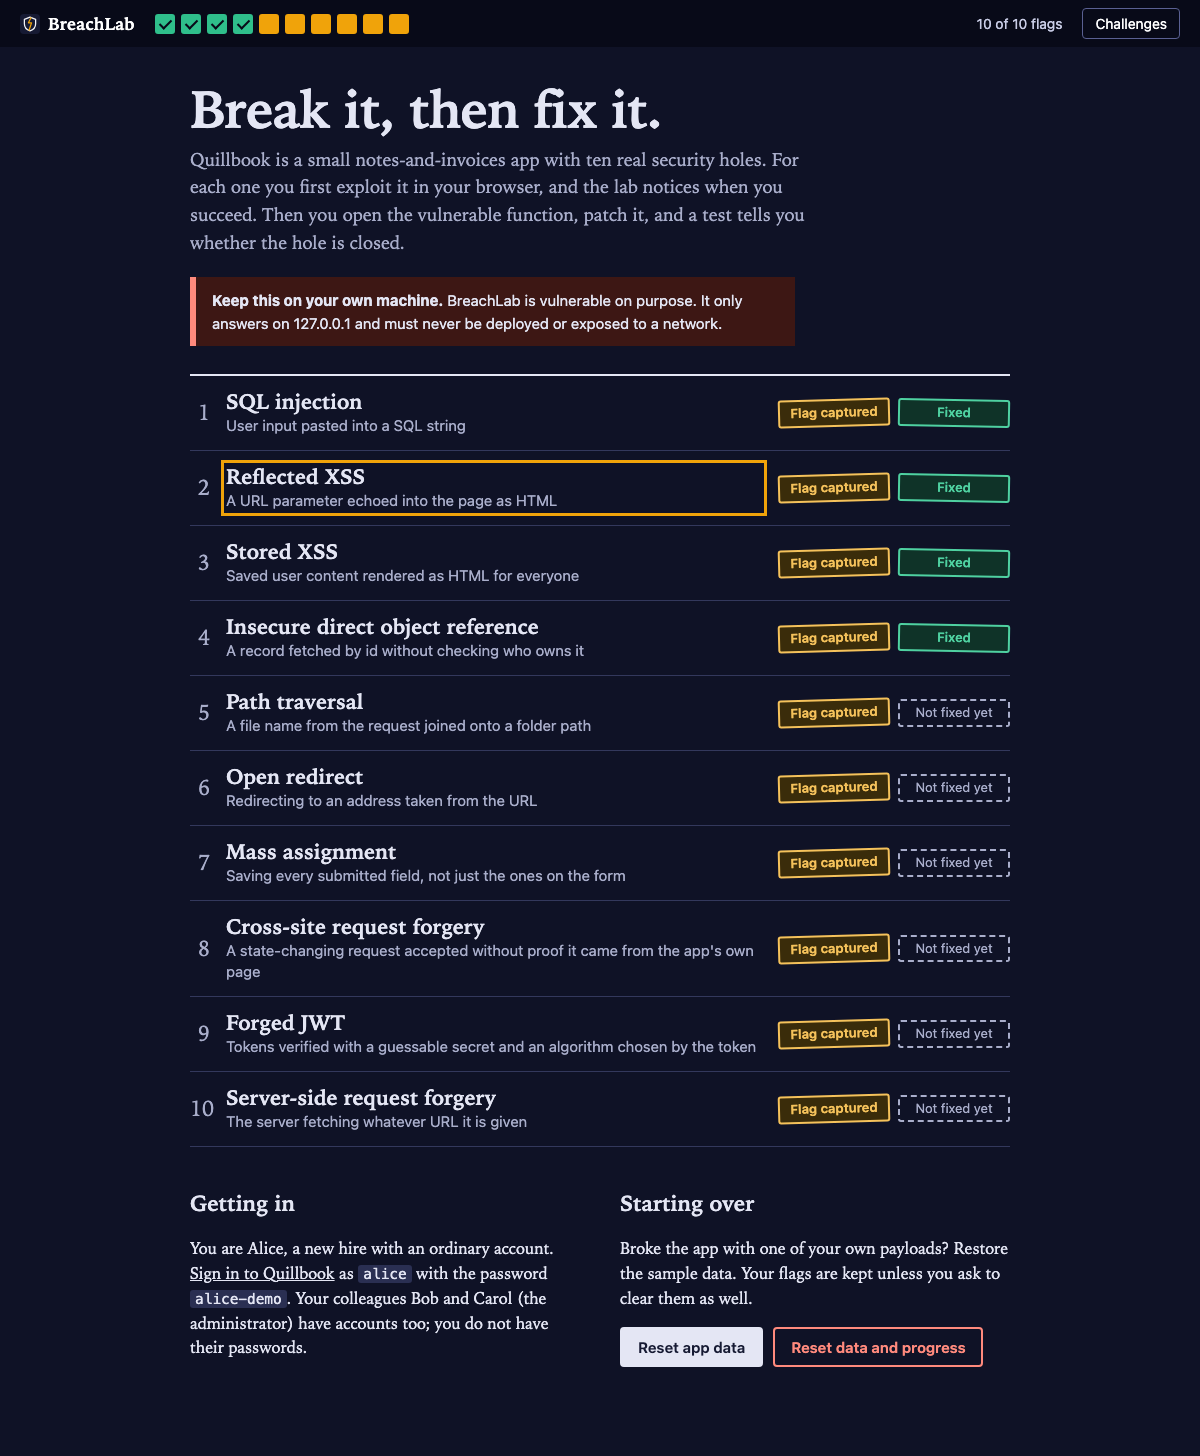
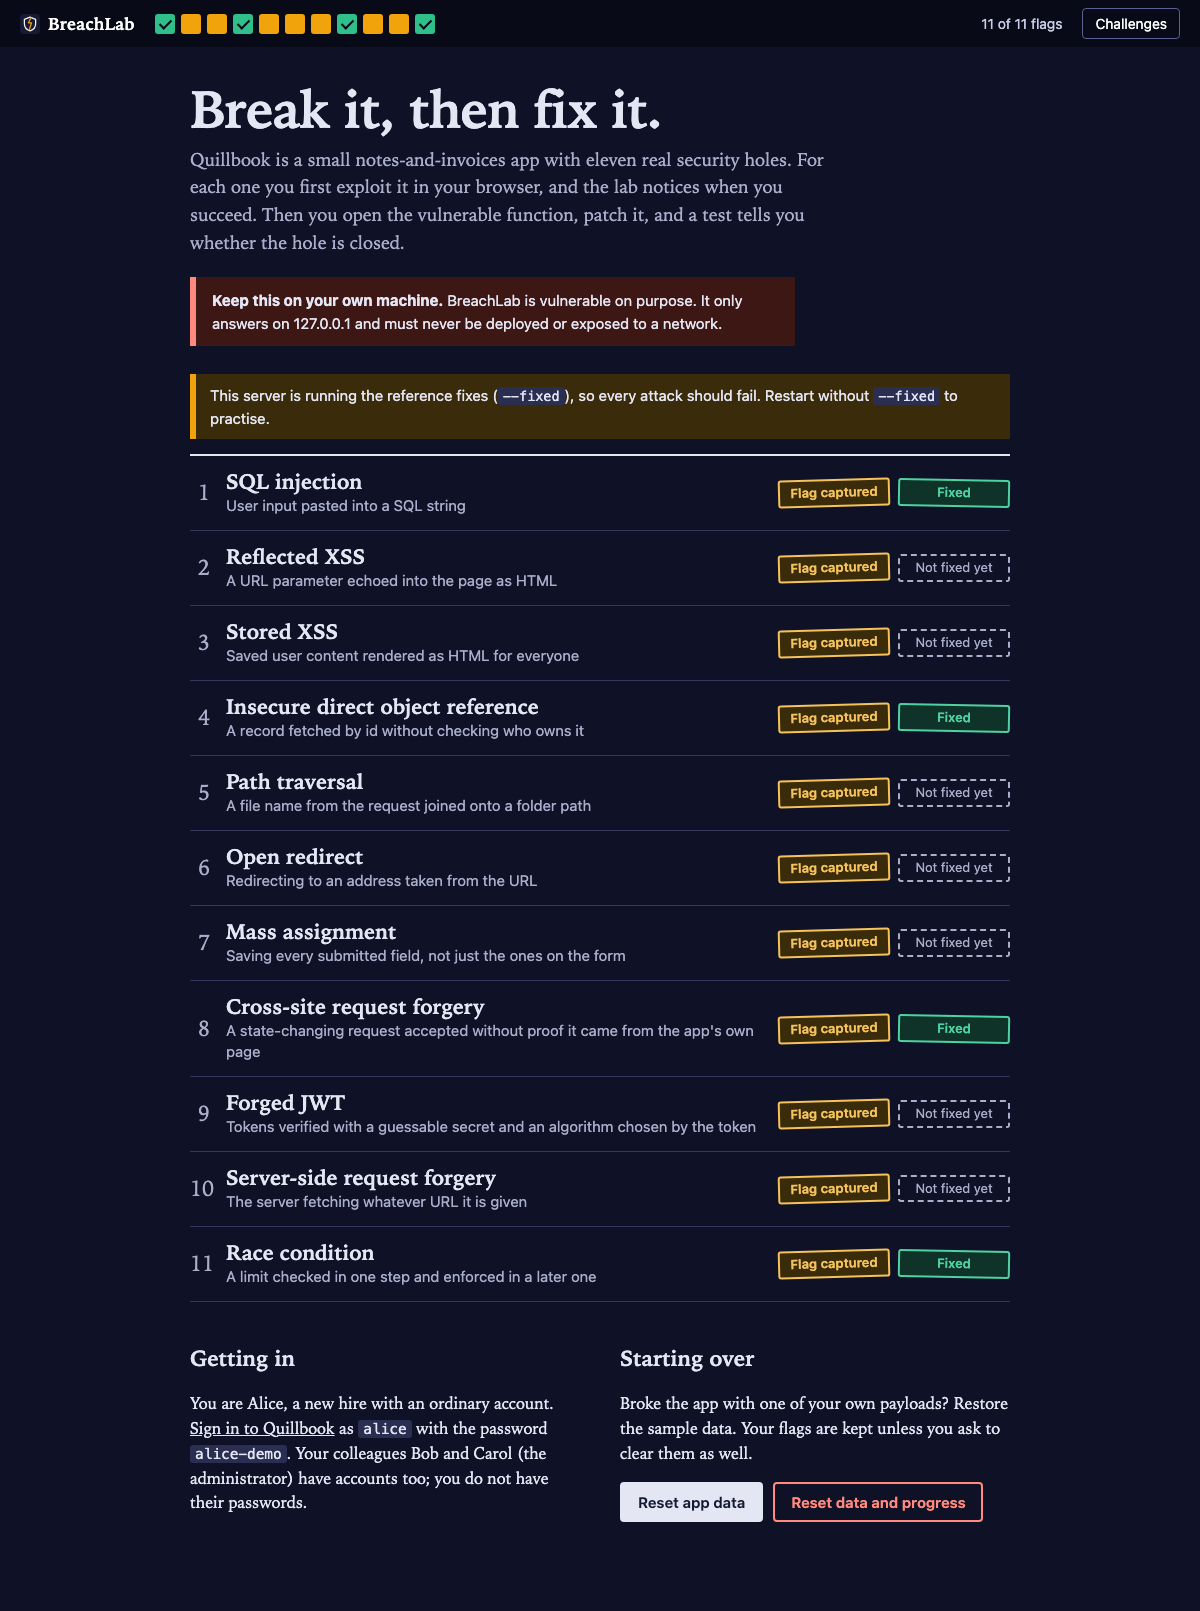
Walkthrough solves the race challenge from its hint; README, screenshots, changelog

Changed region(s): [[0.0, 0.0, 0.8633, 0.9581], [0.4933, 0.8036, 0.8325, 0.9581], [0.8325, 0.0, 0.9867, 0.0309]]

diff --git a/README.md b/README.md
@@ -1,7 +1,7 @@
 # BreachLab
 
 Learn web security by breaking a small, realistic app and then fixing it, entirely on your own machine.
-Ten guided challenges, each with a story, three hints, automatic flag detection, and a test that only passes once you have closed the hole.
+Eleven guided challenges, each with a story, three hints, automatic flag detection, and a test that only passes once you have closed the hole.
 
 > [!CAUTION]
 > **BreachLab is vulnerable on purpose. Never deploy it, never expose it to a network.**
@@ -10,9 +10,9 @@ Ten guided challenges, each with a story, three hints, automatic flag detection,
 
 ![Recording of the lab: the SQL injection challenge, then a search for ' OR 1=1-- in Quillbook shows other people's invoices and captures the flag](docs/demo.gif)
 
-The recording is the real app, driven by `e2e/demo.cjs`. Below: the challenge list with all ten flags captured and four holes fixed.
+The recording is the real app, driven by `e2e/demo.cjs`. Below: the challenge list with all eleven flags captured and four holes fixed.
 
-![The challenge list with all ten flags captured and four holes fixed](docs/screenshots/progress.png)
+![The challenge list with all eleven flags captured and four holes fixed](docs/screenshots/progress.png)
 
 ## Quickstart
 
@@ -60,7 +60,7 @@ why the hole existed, why the fix works, and the general pattern to use in real 
 page can show it (behind a spoiler), and `python -m breachlab --fixed` runs the whole app on the
 reference fixes so you can watch your attacks fail.
 
-## The ten challenges
+## The eleven challenges
 
 | # | Challenge | Where in Quillbook | Function you patch |
 |---|-----------|--------------------|--------------------|
@@ -74,10 +74,11 @@ reference fixes so you can watch your attacks fail.
 | 8 | Cross-site request forgery | Account profile form | `csrf.is_request_genuine` |
 | 9 | Forged JWT (`alg: none` and a weak secret) | API token | `weak_jwt.verify` |
 | 10 | Server-side request forgery | Import invoice from URL | `ssrf.is_allowed_url` |
+| 11 | Race condition | Voucher redemption on the account page | `race_condition.redeem_voucher` |
 
 ## Features
 
-- Ten challenges with a story, a goal, three progressive hints and a flag each.
+- Eleven challenges with a story, a goal, three progressive hints and a flag each.
 - Automatic detection: the server recognises a successful attack (a foreign row in search results, a
   read outside the exports folder, a forged admin token, script calling `alert()`, and so on). There
   is no flag form to paste into.
@@ -89,7 +90,7 @@ reference fixes so you can watch your attacks fail.
   or start. If that port is busy, the lab starts anyway and the challenge page explains how to serve the
   page with `python3 -m http.server` instead.
 - A progress page showing which holes you have broken and which you have fixed, also visible as a
-  strip of ten squares in the bar above every page.
+  strip of squares, one per challenge, in the bar above every page.
 - Reset buttons: restore the sample data (keeps your flags), or wipe data and progress.
 - `--fixed` mode to run the app on the reference fixes.
 - Light and dark themes that follow your system setting, a phone-width layout, and keyboard focus you can see.
@@ -102,8 +103,8 @@ reference fixes so you can watch your attacks fail.
 breachlab/
   app.py           Quillbook (the fake app) and the lab pages, one Flask app
   attacker.py      Mallory's site: serves the learner's CSRF attacker page on the next port
-  vulnerable/      ten small modules, one deliberately vulnerable function each  <- you edit these
-  solutions/       the same ten functions, fixed, with the explanation in the docstring
+  vulnerable/      eleven small modules, one deliberately vulnerable function each  <- you edit these
+  solutions/       the same eleven functions, fixed, with the explanation in the docstring
   checks.py        per challenge: replay the attack, then check the feature still works
   challenges.py    stories, goals, hints
   store.py         throwaway SQLite data and progress
@@ -117,7 +118,9 @@ e2e/solve.cjs      solves every challenge in a real browser (Playwright)
 both states.
 
 Data is throwaway: two small SQLite files and a few text files in `.breachlab/` inside the checkout,
-created on first start. Delete the folder or use the reset buttons at any time.
+created on first start. Delete the folder or use the reset buttons at any time. After a `git pull` that
+brings new challenge data (the race condition challenge did), the next start restores the sample data
+by itself; your flags are kept.
 
 ### Safety rails
 
@@ -157,7 +160,7 @@ pytest                                   # the lab's own suite, green on a clean
 BREACHLAB_IMPL=solutions pytest fix_tests  # the provided tests against the reference fixes
 ```
 
-The suite proves, for each of the ten challenges, that the attack succeeds and the flag is captured
+The suite proves, for each of the eleven challenges, that the attack succeeds and the flag is captured
 on the vulnerable code, that the reference fix blocks the attack while the feature keeps working, and
 that fixing one challenge alone turns its test green. The checks are tested too: a set of plausible
 half-fixes (escaping only the first quote, stripping only `<script>` tags, refusing only loopback
@@ -166,7 +169,7 @@ safety rails above.
 
 Script execution for the two XSS challenges cannot be observed without a browser, so pytest proves
 them by the payload arriving unescaped in the HTML. `e2e/solve.cjs` covers the rest of the way: it
-drives Chromium through all ten exploits against a running server and, with `MODE=fixed`, checks that
+drives Chromium through all eleven exploits against a running server and, with `MODE=fixed`, checks that
 they all fail on the reference fixes. CI runs both.
 
 ```bash
@@ -188,7 +191,7 @@ BreachLab is small and Python-only on purpose. Other tools are better at things 
 
 BreachLab's niche: a Python codebase you can read in an afternoon, nothing to install but Flask, and a
 fix stage that runs a test against the code you patched, so you practise defending as well as attacking.
-It has ten challenges, not hundreds, and it is not a replacement for any of the above.
+It has eleven challenges, not hundreds, and it is not a replacement for any of the above.
 
 ## Known limits
 
@@ -200,12 +203,16 @@ It has ten challenges, not hundreds, and it is not a replacement for any of the 
   explained in the reference fix but not playable (it needs RSA, and the lab has no crypto dependency).
 - On the open redirect challenge, backslash tricks such as `/\evil.example` do not work as attacks
   here because Werkzeug percent-encodes them. The fix test still requires your code to reject them.
+- The race condition check sends four simultaneous redemptions. A patch that only narrows the gap
+  (checking again just before the write, without making check and write one step) can pass it by luck.
+  A `threading.Lock` around the function passes too; it closes the race in this one-process lab but not
+  in an app with several workers, which the reference fix explains.
 - One learner per checkout: progress is global, not per user.
 
 ## Roadmap
 
 - A playable RS256/HS256 key confusion challenge.
-- More bug classes: command injection, XXE, insecure deserialization, race conditions, clickjacking.
+- More bug classes: command injection, XXE, insecure deserialization, clickjacking.
 - A defence-in-depth stage per challenge (Content-Security-Policy, cookie flags, framework CSRF protection).
 - Verified Windows support.
 

diff --git a/CHANGELOG.md b/CHANGELOG.md
@@ -19,6 +19,17 @@ All notable changes to this project are documented here. The format follows
 
 ### Added
 
+- Challenge 11, race condition. Alice has a single-use voucher, `QB-WELCOME-10`; the Account page
+  has a voucher form and a credit history. `vulnerable/race_condition.redeem_voucher` checks "unused",
+  waits half a second for the (simulated) voucher partner, then marks it used, so parallel requests
+  all get the credit. The flag is captured when the same voucher appears twice in `credit_log`. The
+  last hint is a console snippet (five `fetch` calls with `Promise.all`), and `e2e/solve.cjs` runs that
+  hint text verbatim in Chromium. The reference fix claims the voucher with one conditional `UPDATE`
+  and checks `rowcount`. The check fires four simultaneous requests from threads; it also requires
+  the partner's verdict to be respected (withdrawn `QB-SPRING-25`), so deleting the slow call does not
+  count as a fix. Half-fix and sound-alternative tests: an atomic claim whose rowcount is ignored must
+  fail; a `threading.Lock` passes. A `.breachlab/app.db` from an older version (no `credit_log` table)
+  is reseeded on start, flags kept. README screenshots retaken with eleven challenges.
 - Launch material: a demo GIF (`docs/demo.gif`, recorded from the real app by `e2e/demo.cjs`), a comparison with
   Juice Shop, DVWA, WebGoat and PortSwigger's academy, `CONTRIBUTING.md` and issue templates.
 - Mallory's site, a built-in attacker website for the CSRF challenge. It was the only challenge that
@@ -82,6 +93,10 @@ All notable changes to this project are documented here. The format follows
 
 ### Notes for the next contributor
 
+- The race condition check sets `PARTNER_SECONDS` to 0.3 (0.5 in the real lab) and releases four
+  signed-in test clients through a `threading.Barrier`. It was stable over repeated runs here; if it
+  ever flakes in CI, widen the delay rather than retrying. The voucher route also goes through
+  `csrf.is_request_genuine`, so the check posts each client's real token.
 - Werkzeug's `make_server` calls `sys.exit(1)` (not raise) when a port is busy; `start_attacker` in
   `__main__.py` catches `SystemExit` for that reason. Tests that start real servers keep to ports
   4165-4169 and pass `--attacker-port` so the default `--port` + 1 does not leave that range.
@@ -101,8 +116,7 @@ All notable changes to this project are documented here. The format follows
   reach its "success" state legitimately (another challenge's side effect, a failed request) and
   add a test like `test_a_genuine_admin_token_is_not_a_forgery`.
 - Still open and deliberate, see Known limits in the README: XSS flags need `alert()`/`confirm()`/
-  `prompt()`, no RS256/HS256 confusion, the learner serves the CSRF attacker page with
-  `python3 -m http.server`, the reference SSRF fix resolves host names, Windows is unverified.
+  `prompt()`, no RS256/HS256 confusion, the reference SSRF fix resolves host names, Windows is unverified.
 
 ## [0.1.0] - 2026-11-21
 
